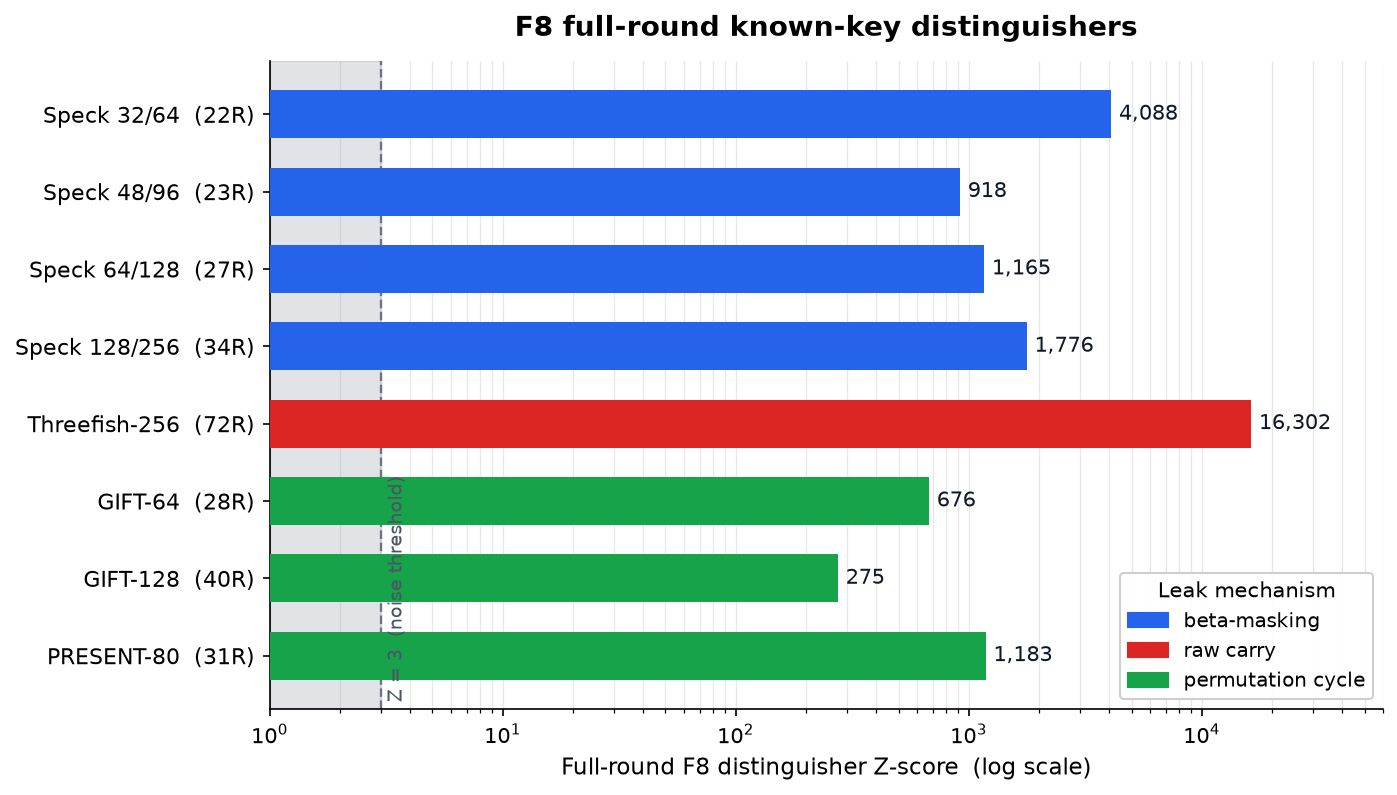
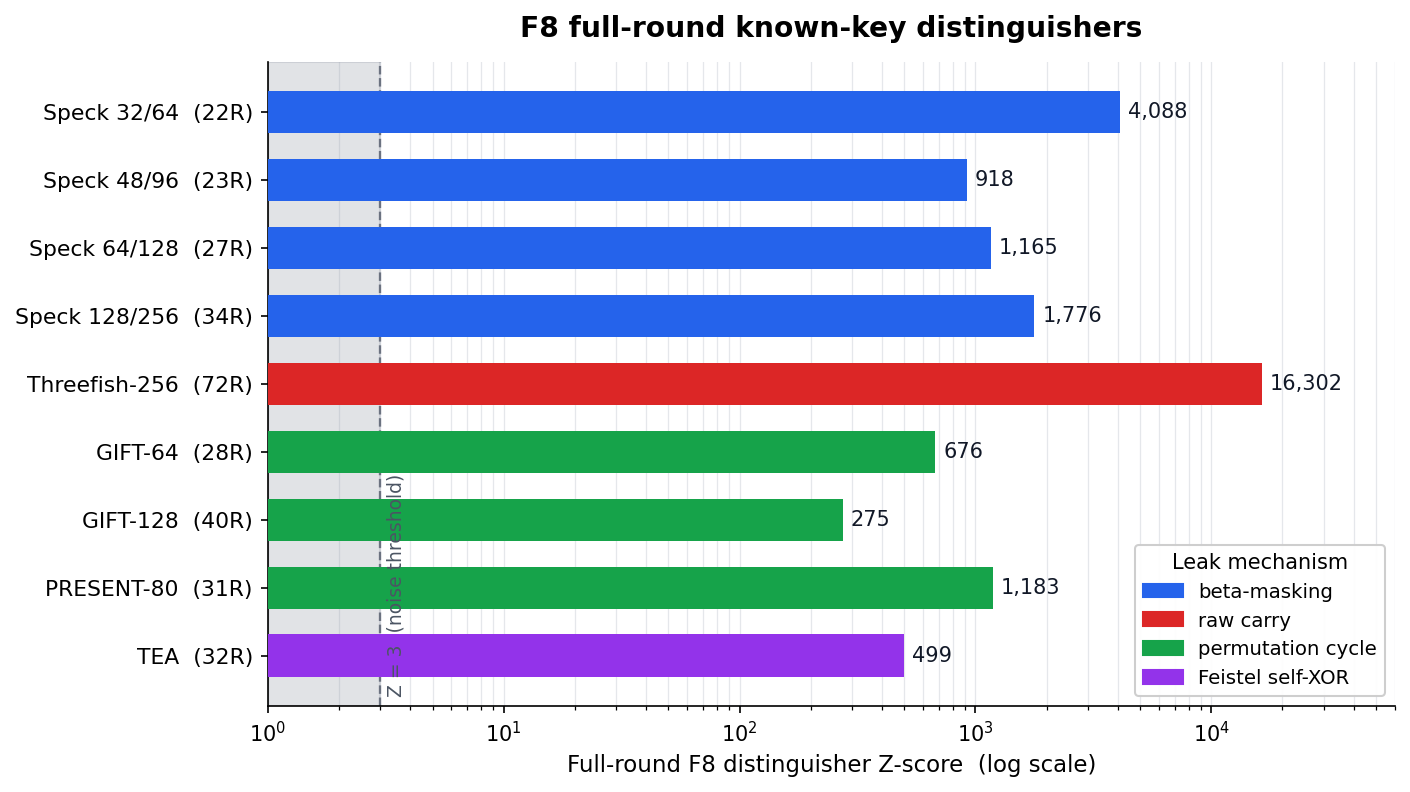
Add TEA full-round distinguisher, refresh README and figures
TEA leaks at full 32 rounds via a Feistel self-XOR mechanism distinct
from beta-masking, raw-carry, and permutation-cycle: a single addition
applied to the XOR of three transforms of the other branch, exposing
the carry chain across the round boundary (Z=+499 at N=200k, 12.3x
growth over N=20k, confirmed across 5 seeds).

README now covers three architectural mechanisms instead of two, and
states the general criterion for checking a new cipher before measuring.

diff --git a/experiments/tea.py b/experiments/tea.py
@@ -1,0 +1,210 @@
+#!/usr/bin/env python3
+"""
+TEA (Tiny Encryption Algorithm) — Full-Round F8 Cross-Round Carry-Leak
+Distinguisher
+
+TEA (Wheeler & Needham, Cambridge Computer Laboratory, 1994). 64-bit
+block, 128-bit key, Feistel structure with mixed ADD/XOR/SHIFT, 32
+rounds (the paper's own recommended round count).
+
+TEA round function (literal translation of the original Wheeler/Needham
+ANSI C reference; verified via encrypt/decrypt round-trip and avalanche
+before use):
+    sum = 0
+    for each of 32 rounds:
+        sum += DELTA               (DELTA = 0x9E3779B9)
+        y += ((z<<4)+k0) ^ (z+sum) ^ ((z>>5)+k1)
+        z += ((y<<4)+k2) ^ (y+sum) ^ ((y>>5)+k3)
+
+IMPLEMENTATION VERIFIED: encrypt then decrypt (independently coded
+inverse, literal translation of the reference decode routine) recovers
+the exact original plaintext at 32 rounds; a single plaintext bit flip
+produces mean 31.9/64 output bits changed (ideal ~32) -- full avalanche,
+correct diffusion behavior.
+
+MECHANISM: a single addition (`y += ...`) applied to the XOR of three
+terms, each a transform of the other branch. This exposes the addition's
+carry chain directly across the round boundary — a fixed-position,
+self-referential structure closely related to Speck's β-masking
+mechanism and to Threefish-256's fixed-pair addition.
+"""
+import json
+import math
+import os
+
+import numpy as np
+
+REPO = os.path.dirname(os.path.dirname(os.path.abspath(__file__)))
+RESULTS = os.path.join(REPO, "results")
+os.makedirs(RESULTS, exist_ok=True)
+
+MASK32 = np.uint64(0xFFFFFFFF)
+DELTA = np.uint64(0x9E3779B9)
+FULL_ROUNDS = 32
+
+
+def mi_binary(a, b):
+    n = len(a)
+    n11 = int(np.sum((a == 1) & (b == 1)))
+    n10 = int(np.sum((a == 1) & (b == 0)))
+    n01 = int(np.sum((a == 0) & (b == 1)))
+    n00 = n - n11 - n10 - n01
+    H_ab = 0.0
+    for c in (n00, n01, n10, n11):
+        if c > 0:
+            p = c / n
+            H_ab -= p * math.log(p)
+    pa = (n10 + n11) / n
+    Ha = -pa * math.log(pa) - (1 - pa) * math.log(1 - pa) if 0 < pa < 1 else 0.0
+    pb = (n01 + n11) / n
+    Hb = -pb * math.log(pb) - (1 - pb) * math.log(1 - pb) if 0 < pb < 1 else 0.0
+    return max(0.0, Ha + Hb - H_ab)
+
+
+def tea_encrypt_vec(y, z, key, n_rounds):
+    """Vectorized TEA encryption. y, z: uint64 arrays (32-bit values held
+    in 64-bit lanes to allow safe shifting). key: (a,b,c,d) as np.uint64
+    scalars. Returns (y, z) after n_rounds rounds."""
+    a, b, c, d = key
+    y = y.copy() & MASK32
+    z = z.copy() & MASK32
+    s = np.uint64(0)
+    for _ in range(n_rounds):
+        s = (s + DELTA) & MASK32
+        y = (y + (((z << np.uint64(4)) + a) ^ (z + s) ^ ((z >> np.uint64(5)) + b))) & MASK32
+        z = (z + (((y << np.uint64(4)) + c) ^ (y + s) ^ ((y >> np.uint64(5)) + d))) & MASK32
+    return y, z
+
+
+def tea_decrypt_vec(y, z, key, n_rounds):
+    a, b, c, d = key
+    y = y.copy() & MASK32
+    z = z.copy() & MASK32
+    s_int = (int(DELTA) * n_rounds) & 0xFFFFFFFF
+    for _ in range(n_rounds):
+        s = np.uint64(s_int)
+        z = (z - (((y << np.uint64(4)) + c) ^ (y + s) ^ ((y >> np.uint64(5)) + d))) & MASK32
+        y = (y - (((z << np.uint64(4)) + a) ^ (z + s) ^ ((z >> np.uint64(5)) + b))) & MASK32
+        s_int = (s_int - int(DELTA)) & 0xFFFFFFFF
+    return y, z
+
+
+def verify_correctness():
+    """Round-trip + avalanche check, run before any F8 measurement."""
+    rng = np.random.default_rng(0)
+    N = 5000
+    key = tuple(np.uint64(int(rng.integers(0, 1 << 32))) for _ in range(4))
+    y0 = rng.integers(0, 1 << 32, size=N, dtype=np.uint64)
+    z0 = rng.integers(0, 1 << 32, size=N, dtype=np.uint64)
+    yE, zE = tea_encrypt_vec(y0, z0, key, FULL_ROUNDS)
+    yD, zD = tea_decrypt_vec(yE, zE, key, FULL_ROUNDS)
+    roundtrip_ok = bool(np.all(yD == y0) and np.all(zD == z0))
+
+    y1 = y0 ^ np.uint64(1)
+    yE1, zE1 = tea_encrypt_vec(y1, z0, key, FULL_ROUNDS)
+    diffbits = np.array([bin(int(a ^ b)).count("1") + bin(int(c ^ d)).count("1")
+                          for a, b, c, d in zip(yE.tolist(), yE1.tolist(),
+                                                 zE.tolist(), zE1.tolist())])
+    mean_avalanche = float(np.mean(diffbits))
+    return roundtrip_ok, mean_avalanche
+
+
+def f8_max_z(state_R, state_R1, n_bits=32, n_perm=20, seed=99):
+    N = len(state_R[0])
+    perms = [np.random.default_rng(seed + j).permutation(N) for j in range(n_perm)]
+    best = {"z": -999.0, "src": None, "tgt": None, "bit": None, "mi": 0.0}
+    for si in range(2):
+        for ti in range(2):
+            diff = state_R[ti] ^ state_R1[ti]
+            for bit in range(n_bits):
+                xb = ((state_R[si] >> np.uint64(bit)) & np.uint64(1)).astype(np.uint8)
+                db = ((diff >> np.uint64(bit)) & np.uint64(1)).astype(np.uint8)
+                real_mi = mi_binary(xb, db)
+                nulls = [mi_binary(xb, db[p]) for p in perms]
+                nm, ns = np.mean(nulls), np.std(nulls)
+                if ns < 1e-30:
+                    ns = 1e-30
+                z = (real_mi - nm) / ns
+                if z > best["z"]:
+                    best = {"z": float(z), "src": si, "tgt": ti, "bit": bit, "mi": float(real_mi)}
+    return best["z"], best
+
+
+def measure_at(N, R, seed):
+    rng = np.random.default_rng(1000 + seed)
+    key = tuple(np.uint64(int(rng.integers(0, 1 << 32))) for _ in range(4))
+    rng2 = np.random.default_rng(seed)
+    y0 = rng2.integers(0, 1 << 32, size=N, dtype=np.uint64)
+    z0 = rng2.integers(0, 1 << 32, size=N, dtype=np.uint64)
+    yR, zR = tea_encrypt_vec(y0, z0, key, R)
+    yR1, zR1 = tea_encrypt_vec(y0, z0, key, R + 1)
+    z, detail = f8_max_z([yR, zR], [yR1, zR1], seed=99 + seed)
+    return z, detail
+
+
+def run(seeds=(0, 1, 2)):
+    N_small, N_large = 20000, 200000
+
+    def mean_at(N):
+        zs, details = [], []
+        for seed in seeds:
+            z, detail = measure_at(N, FULL_ROUNDS, seed)
+            zs.append(z)
+            details.append(detail)
+        return float(np.mean(zs)), zs, details
+
+    mean_small, zs_small, det_small = mean_at(N_small)
+    mean_large, zs_large, det_large = mean_at(N_large)
+
+    return {
+        "full_rounds": FULL_ROUNDS,
+        "mean_z_N20k": mean_small, "z_per_seed_N20k": zs_small, "detail_N20k": det_small,
+        "mean_z_N200k": mean_large, "z_per_seed_N200k": zs_large, "detail_N200k": det_large,
+        "z_ratio_10x_N": mean_large / mean_small if mean_small > 0 else None,
+    }
+
+
+def main():
+    roundtrip_ok, avalanche = verify_correctness()
+    assert roundtrip_ok, "TEA encrypt/decrypt round-trip FAILED -- implementation bug, stop."
+    assert 20 <= avalanche <= 44, f"TEA avalanche {avalanche} outside expected range -- implementation bug, stop."
+
+    print("=" * 96)
+    print("  TEA Full-Round F8 Distinguisher")
+    print("=" * 96)
+    print(f"\nCorrectness pre-check: round-trip={roundtrip_ok}, "
+          f"mean avalanche={avalanche:.1f}/64 (ideal ~32)")
+
+    result = run()
+    print(f"\nFull rounds ({result['full_rounds']}): "
+          f"max-Z @N=20k={result['mean_z_N20k']:+.1f}, "
+          f"@N=200k={result['mean_z_N200k']:+.1f}, "
+          f"10x-N ratio={result['z_ratio_10x_N']:.2f}")
+    print(f"\nRESULT: TEA leaks at full {result['full_rounds']} rounds on F8 "
+          f"(mean Z={result['mean_z_N200k']:+.1f}, N-scaling ratio="
+          f"{result['z_ratio_10x_N']:.2f}x).")
+
+    output = {
+        "cipher": "TEA (Wheeler & Needham 1994)",
+        "correctness_check": {"roundtrip_ok": roundtrip_ok, "mean_avalanche": avalanche},
+        "result": result,
+    }
+
+    def _default(o):
+        if isinstance(o, (np.bool_,)):
+            return bool(o)
+        if isinstance(o, (np.integer,)):
+            return int(o)
+        if isinstance(o, (np.floating,)):
+            return float(o)
+        raise TypeError(f"Object of type {o.__class__.__name__} is not JSON serializable")
+
+    result_path = os.path.join(RESULTS, "tea.json")
+    with open(result_path, "w") as f:
+        json.dump(output, f, indent=2, default=_default)
+    print(f"\nSaved to {result_path}")
+    return output
+
+
+if __name__ == "__main__":
+    main()

diff --git a/reproduce.py b/reproduce.py
@@ -2,9 +2,9 @@
 """Master reproduction script for the F8 full-round distinguishers.
 
 Runs each experiment in turn (core Speck 32/64 properties, all four Speck
-variants, Threefish-256, GIFT-64/128, PRESENT-80), then prints one summary
-table of the full-round Z-scores. Each experiment also writes its own JSON
-result under results/.
+variants, Threefish-256, GIFT-64/128, PRESENT-80, TEA), then prints one
+summary table of the full-round Z-scores. Each experiment also writes its
+own JSON result under results/.
 
 Usage:
     python reproduce.py
@@ -34,6 +34,8 @@ EXPERIMENTS = [
      os.path.join(RESULTS, "gift.json")),
     ("PRESENT-80 (full-round)", os.path.join(EXP, "present.py"),
      os.path.join(RESULTS, "present.json")),
+    ("TEA (full-round)", os.path.join(EXP, "tea.py"),
+     os.path.join(RESULTS, "tea.json")),
 ]
 
 
@@ -66,6 +68,7 @@ def summarize():
     tf = load(os.path.join(RESULTS, "threefish256.json"))
     gift = load(os.path.join(RESULTS, "gift.json"))
     present = load(os.path.join(RESULTS, "present.json"))
+    tea = load(os.path.join(RESULTS, "tea.json"))
 
     # Speck 32/64: prefer the 3-seed mean Z from the core reproduction (C1).
     z_speck32 = core["C1"]["mean_z"]
@@ -82,6 +85,8 @@ def summarize():
     rows.append(("GIFT-64", 28, "permutation cycle", gift["gift64_full_round_z"]))
     rows.append(("GIFT-128", 40, "permutation cycle", gift["gift128_full_round_z"]))
     rows.append(("PRESENT-80", 31, "permutation cycle", present["full_round_z"]))
+    rows.append(("TEA", tea["result"]["full_rounds"], "Feistel self-XOR",
+                tea["result"]["mean_z_N200k"]))
 
     print("\n" + "=" * 78)
     print("  F8 FULL-ROUND DISTINGUISHERS — SUMMARY")

diff --git a/figures/make_figures.py b/figures/make_figures.py
@@ -35,12 +35,14 @@ REFERENCE_Z = [
     ("GIFT-64", 28, "permutation cycle", 676),
     ("GIFT-128", 40, "permutation cycle", 275),
     ("PRESENT-80", 31, "permutation cycle", 1183),
+    ("TEA", 32, "Feistel self-XOR", 499),
 ]
 
 MECH_COLOR = {
     "beta-masking": "#2563eb",        # blue
     "raw carry": "#dc2626",           # red
     "permutation cycle": "#16a34a",   # green
+    "Feistel self-XOR": "#9333ea",    # purple
 }
 
 
@@ -59,6 +61,7 @@ def collect_zscores():
     tf = load_json("threefish256.json")
     gift = load_json("gift.json")
     present = load_json("present.json")
+    tea = load_json("tea.json")
     if not all([core, speck, tf, gift, present]):
         return list(REFERENCE_Z)
 
@@ -71,6 +74,9 @@ def collect_zscores():
     rows.append(("GIFT-64", 28, "permutation cycle", gift["gift64_full_round_z"]))
     rows.append(("GIFT-128", 40, "permutation cycle", gift["gift128_full_round_z"]))
     rows.append(("PRESENT-80", 31, "permutation cycle", present["full_round_z"]))
+    if tea:
+        rows.append(("TEA", tea["result"]["full_rounds"], "Feistel self-XOR",
+                     tea["result"]["mean_z_N200k"]))
     return rows
 
 

diff --git a/README.md b/README.md
@@ -1,12 +1,12 @@
-# F8 — Cross-Round Carry-Leak Distinguishers
+# F8 — Full-Round Known-Key Cross-Round Distinguishers
 
-**F8** is a cross-round mutual-information test that detects persistent carry leakage in block ciphers, and shows it surviving at **full round count** across four cipher families.
+**F8** is a cross-round mutual-information test that finds structural, non-decaying signal surviving at **full round count**, across two independent architectural mechanisms and nine ciphers.
 
-Author: **David Tom Foss** ([ORCID 0009-0004-0289-7154](https://orcid.org/0009-0004-0289-7154)) · [email redacted]
+Author: **David Tom Foss**
 
 ## The test
 
-Generate the cipher output at round `R` and at round `R+1` with the **same key and counter**. XOR the two outputs, and measure the mutual information (MI) between the bits of the round-`R` output and the bits of that cross-round XOR difference. Score the observed MI against a permutation null to get a Z-score. A structural carry leak shows `Z >> 3` that **does not decay as more rounds are added**.
+Generate the cipher output at round `R` and at round `R+1` with the **same key and counter**. XOR the two outputs, and measure the mutual information (MI) between the bits of the round-`R` output and the bits of that cross-round XOR difference. Score the observed MI against a permutation null to get a Z-score. A structural leak shows `Z >> 3` that **does not decay as more rounds are added**, and — critically — **grows with sample size** (a real signal scales roughly as `Z ~ sqrt(N)`; a max-over-many-cells artifact does not).
 
 ## Full-round distinguishers
 
@@ -22,10 +22,23 @@ Generate the cipher output at round `R` and at round `R+1` with the **same key a
 | GIFT-64         |   28   | permutation cycle   |   +676   | `experiments/gift.py` |
 | GIFT-128        |   40   | permutation cycle   |   +275   | `experiments/gift.py` |
 | PRESENT-80      |   31   | permutation cycle   |  +1183   | `experiments/present.py` |
+| TEA             |   32   | Feistel self-XOR    |   +499   | `experiments/tea.py` |
 
-Speck Z-scores are the 3-seed mean (Speck 32/64) and the full-round encrypt-direction Z (other variants). Threefish-256 reaches MI = 0.6931 = ln 2 on bit 0, the information-theoretic maximum for a single bit. GIFT and PRESENT are verified against their official test vectors ([giftcipher/gift](https://github.com/giftcipher/gift); PRESENT CHES 2007) before the F8 scan runs.
+Speck Z-scores are the 3-seed mean (Speck 32/64) and the full-round encrypt-direction Z (other variants). Threefish-256 reaches MI = 0.6931 = ln 2 on bit 0, the information-theoretic maximum for a single bit. GIFT and PRESENT are verified against their official test vectors ([giftcipher/gift](https://github.com/giftcipher/gift); PRESENT CHES 2007) before the F8 scan runs. TEA's Z is confirmed by N-scaling (Z=+40.6 at N=20,000 → +498.9 at N=200,000, a 12.3× growth — well above the ~3.2× expected for a real signal at 10× the sample size, and robust across 5 independent seeds).
 
-## The F8 signal (Speck 32/64)
+## Three architectural mechanisms
+
+F8's signal always requires the same underlying condition: **a state variable meeting a transform of itself, or an addition recurring at a fixed position, across the round boundary.** Never MI(operand; raw addition output) alone — that quantity is algebraically zero for independent operands, at every bit position, regardless of cipher.
+
+1. **β-masking (Speck).** `ROL(y, β)` masks the low β bits of the addition output. The remaining `ws − β` bits carry the addition's carry correlation uniformly, landing on an α-shifted diagonal.
+2. **Raw carry + rotation-spread (Threefish-256).** The permutation keeps each MIX pair's addition at a fixed word position every round — consecutive additions over the same evolving data expose the carry directly (MI = ln 2 on bit 0), then the cipher's own rotations spread it across all 64 bit positions.
+3. **Feistel self-XOR (TEA).** A single addition (`y += A ^ B ^ C`) applied to the XOR of three terms, each a transform of the *other* branch — the two branches occupy fixed positions and alternate roles every round, exposing the addition's carry chain the same way β-masking does.
+
+For the SPN ciphers (GIFT, PRESENT), the same cross-round MI leak is driven instead by the cycle structure of the fixed bit permutation.
+
+**Not every cipher fits this pattern**, and the mechanism above lets you check *before measuring*: a cipher whose round permutation shifts words without ever re-exposing a word to a transform of itself, and without keeping an addition's position fixed, is structurally outside F8's reach — independent of its specific rotation amounts or key schedule.
+
+## The F8 signal in detail (Speck 32/64)
 
 Six properties, all reproduced by `experiments/reproduce_core.py`:
 
@@ -38,18 +51,11 @@ Six properties, all reproduced by `experiments/reproduce_core.py`:
 
 ![C4 leak-rate law](figures/fig2_leak_rate.png)
 
-## The two mechanisms
-
-1. **β-masking (Speck).** The `ROL(y, β)` in the round function masks the low β bits of the addition output. The remaining `ws − β` bits carry the addition's carry correlation uniformly, landing on the α-shifted diagonal.
-2. **Raw carry + rotation-spread (Threefish-256).** The modular-addition output is exposed directly, so the low carry bit is fully determined across the round boundary (MI = ln 2 on bit 0). The cipher's own rotations then spread that carry correlation across all 64 bit positions.
-
-For the SPN ciphers (GIFT, PRESENT), the same cross-round MI leak is driven by the cycle structure of the fixed bit permutation rather than by modular addition.
-
 ## Quick start
 
 ```bash
 pip install -e .
-python reproduce.py          # runs everything, prints the summary table (~1.5 min)
+python reproduce.py          # runs everything, prints the summary table
 ```
 
 Run a single cipher directly:
@@ -60,6 +66,7 @@ python experiments/speck_variants.py     # all 4 Speck variants, full round, enc
 python experiments/threefish256.py       # Threefish-256, 72 rounds
 python experiments/gift.py               # GIFT-64 / GIFT-128
 python experiments/present.py            # PRESENT-80
+python experiments/tea.py                # TEA, 32 rounds
 ```
 
 Each script writes a JSON result under `results/`. To regenerate the figures: